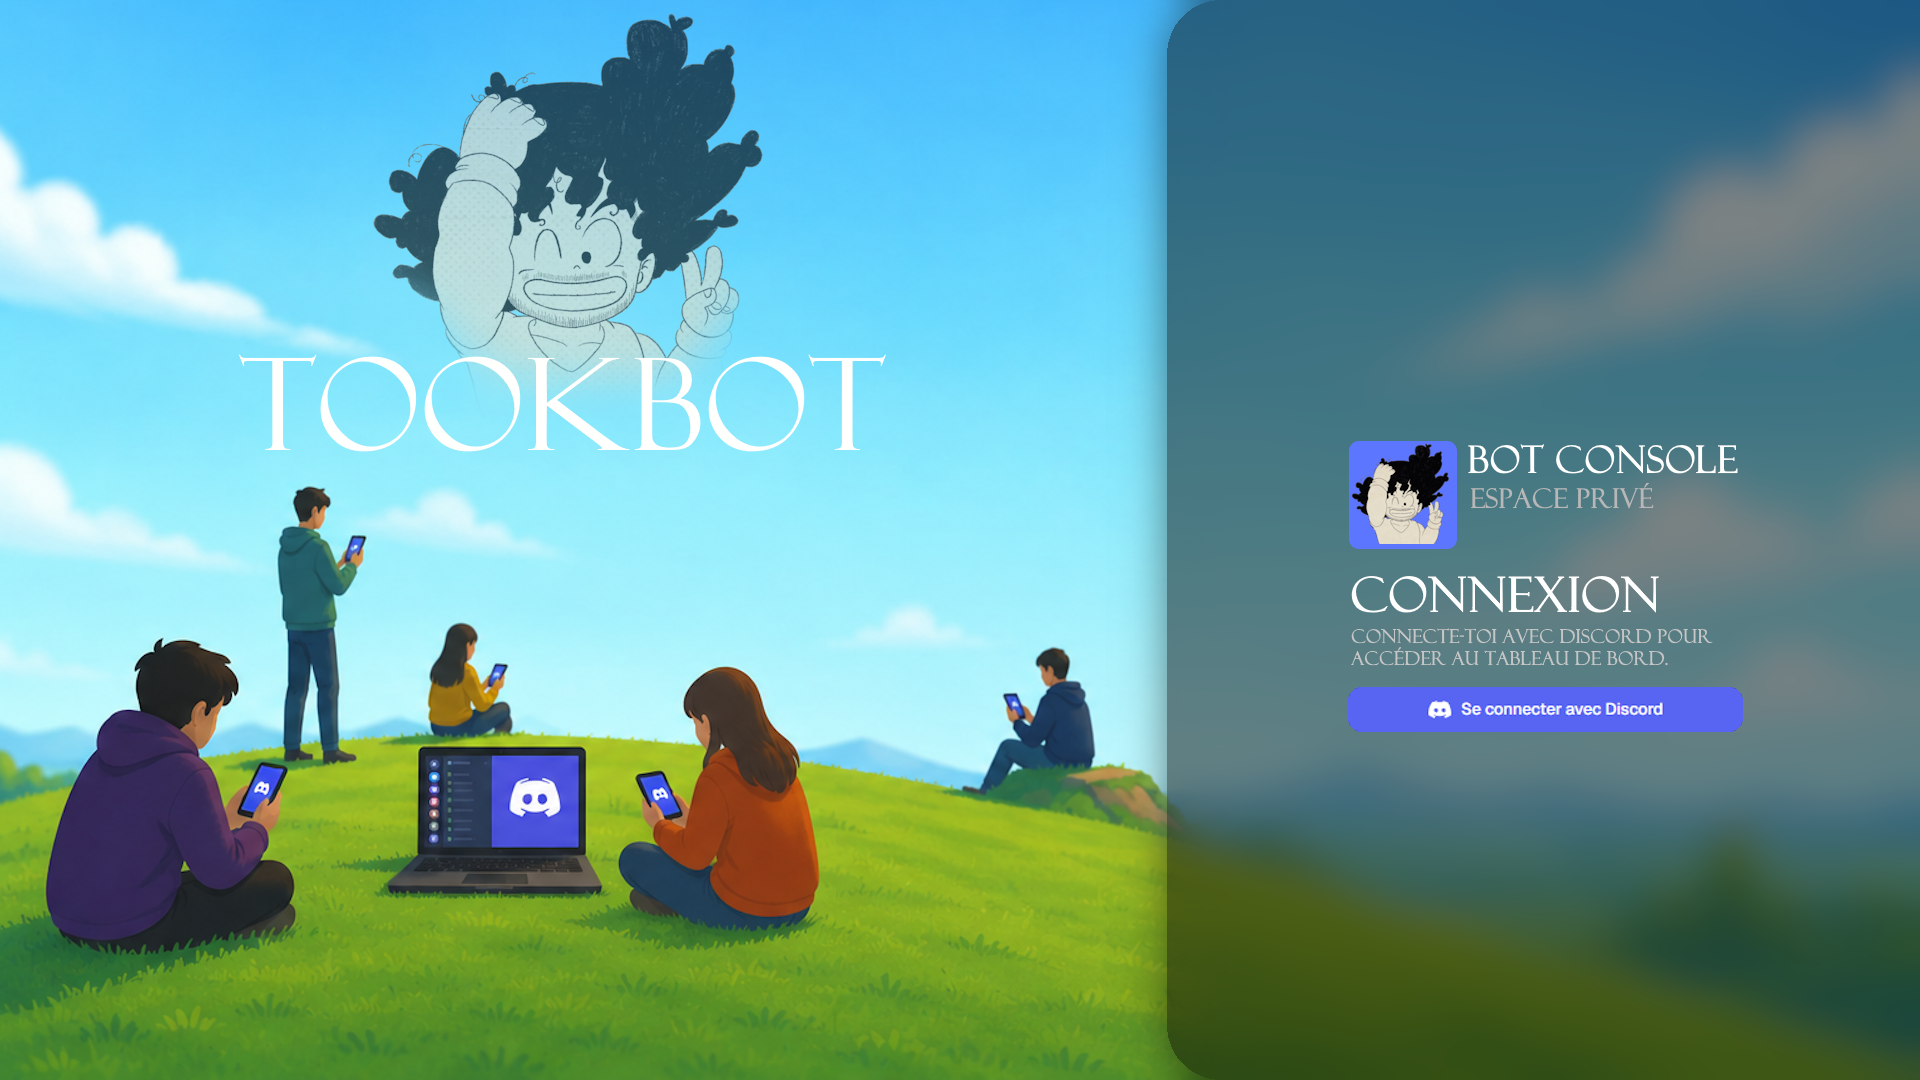
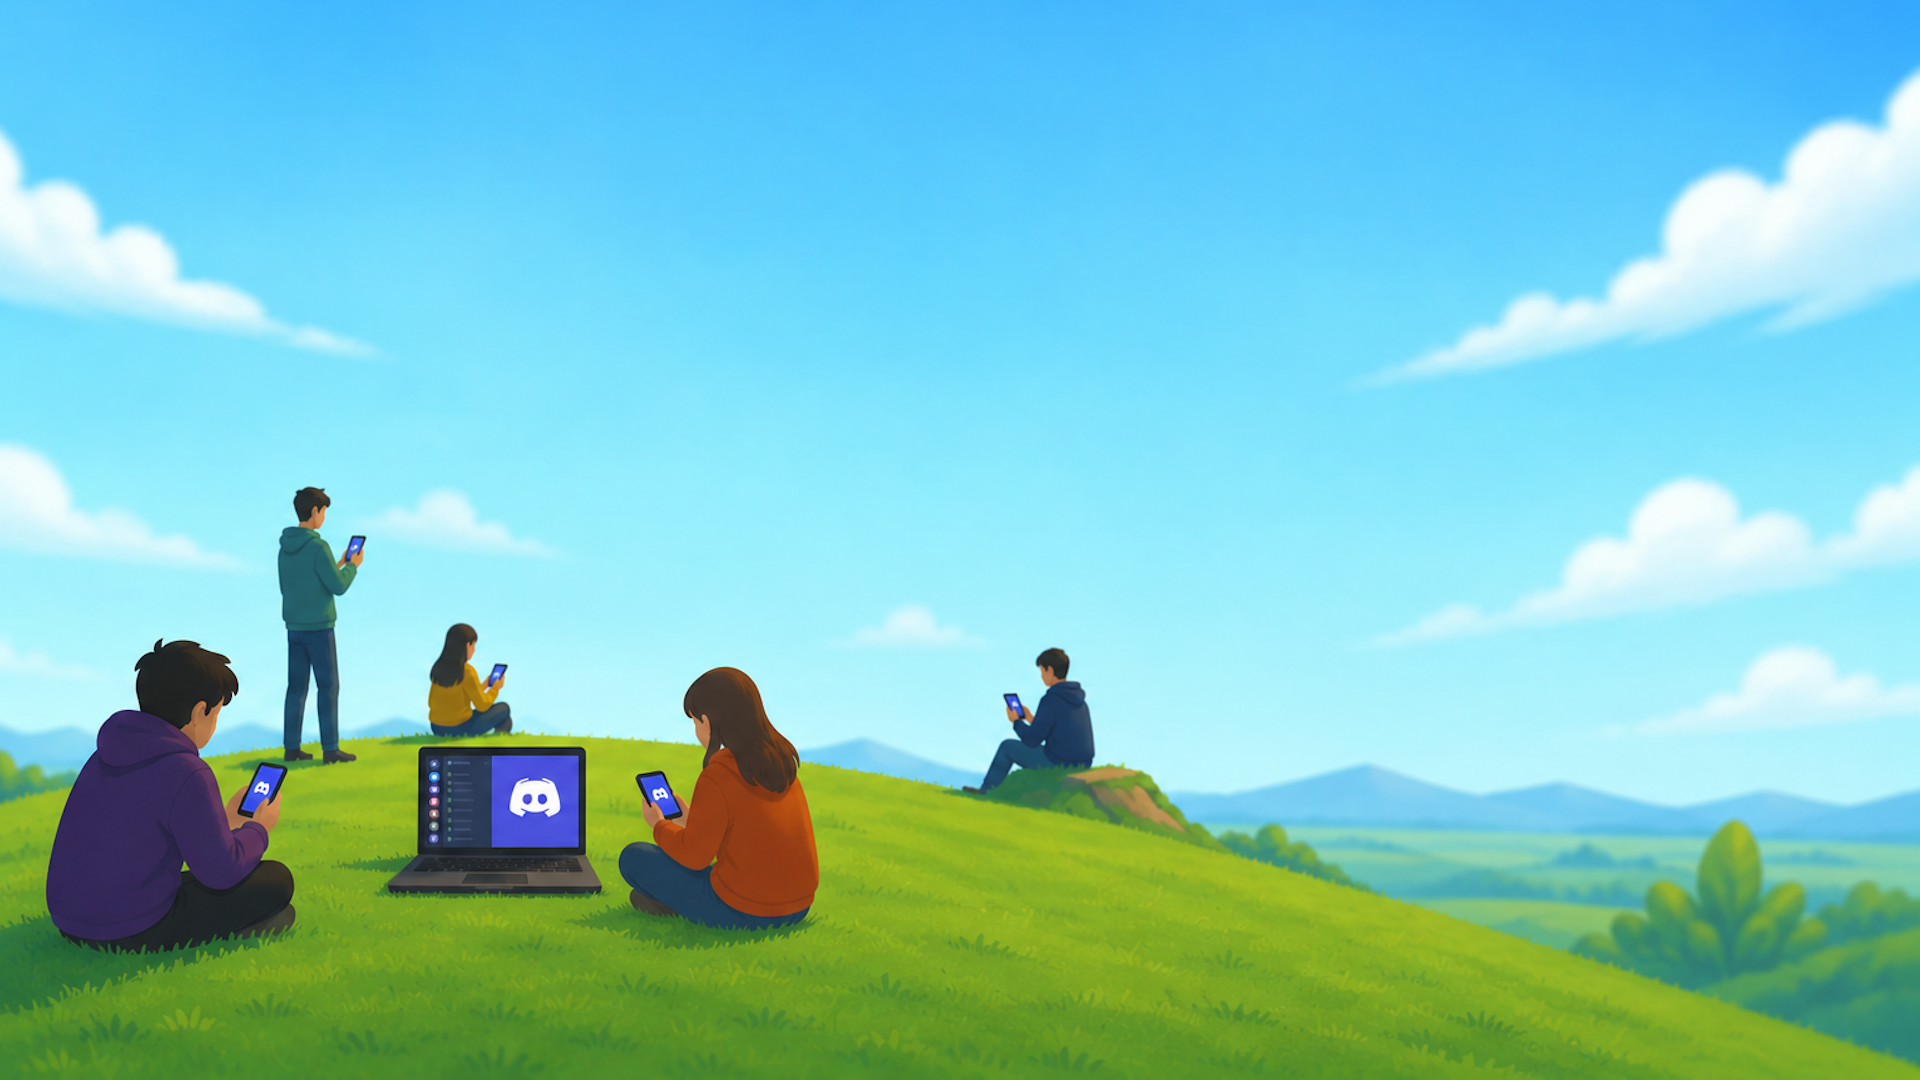
page connexion : panneau reconstruit en HTML (texte net + bouton discord) sur artwork, flou gaussien 64 derriere le panneau via backdrop-filter masque

diff --git a/templates/login.html b/templates/login.html
@@ -7,115 +7,121 @@
   <link rel="icon" type="image/png" sizes="32x32" href="/static/favicon-32.png">
   <link rel="apple-touch-icon" sizes="180x180" href="/static/favicon-180.png">
   <title>Connexion · TookBot</title>
-  {% include "_styles.html" %}
   <style>
-    /* Position du bouton Discord sur l'artwork (design 1920x1080). Ajustable. */
-    :root {
-      --btn-left: 85%;   /* centre horizontal du bouton, % de la largeur */
-      --btn-top: 65.5%;  /* centre vertical du bouton, % de la hauteur */
-      --btn-w: 26%;      /* largeur de la zone cliquable */
-      --btn-h: 6%;       /* hauteur de la zone cliquable */
-    }
-    html, body { height: 100%; }
+    * { box-sizing: border-box; }
+    html, body { height: 100%; margin: 0; }
     body {
-      margin: 0; padding: 0; overflow: hidden;
+      font-family: "Inter", "Segoe UI", system-ui, sans-serif;
+      overflow: hidden; color: #fff;
       background: #0a0a0f url("/static/login_bg.png") center / cover no-repeat;
     }
-    .login-stage { position: fixed; inset: 0; }
-    /* Hotspot cliquable PILE sur le bouton dessiné dans l'image */
-    .login-discord {
-      position: absolute;
-      left: var(--btn-left); top: var(--btn-top);
-      width: var(--btn-w); height: var(--btn-h);
-      transform: translate(-50%, -50%);
-      border-radius: 10px;
-      cursor: pointer;
-      background: transparent;
-      transition: background .15s ease, box-shadow .15s ease;
+    /* Flou gaussien 64 derriere le panneau : backdrop-filter masque par la forme
+       du panel PNG (meme cadrage cover -> alignement parfait avec le fond). */
+    .panel-blur {
+      position: fixed; inset: 0; z-index: 1; pointer-events: none;
+      -webkit-backdrop-filter: blur(64px); backdrop-filter: blur(64px);
+      -webkit-mask: url("/static/login_panel.png") center / cover no-repeat;
+              mask: url("/static/login_panel.png") center / cover no-repeat;
     }
-    .login-discord:hover {
-      background: rgba(255,255,255,0.10);
-      box-shadow: 0 0 0 2px rgba(255,255,255,0.25), 0 6px 24px rgba(0,0,0,0.3);
+    /* Le panneau (tint / verre depoli / bords) par-dessus le flou. */
+    .panel-img {
+      position: fixed; inset: 0; z-index: 2; pointer-events: none;
+      background: url("/static/login_panel.png") center / cover no-repeat;
     }
-    .login-discord:focus-visible {
-      outline: none; background: rgba(255,255,255,0.12);
-      box-shadow: 0 0 0 2px #5865F2;
+    /* Contenu HTML net positionne sur la zone du panneau (design 1920x1080). */
+    .panel-content {
+      position: fixed; z-index: 3;
+      top: 0; bottom: 0; left: 61.5%; right: 2%;
+      display: flex; flex-direction: column; justify-content: center;
+      gap: 22px; padding: 0 3% 0 0;
+      text-shadow: 0 1px 12px rgba(0,0,0,0.25);
     }
-    /* Message d'erreur discret en haut */
+    .brand { display: flex; align-items: center; gap: 16px; }
+    .brand img { width: 64px; height: 64px; border-radius: 14px; box-shadow: 0 4px 16px rgba(0,0,0,0.3); }
+    .brand .b-title {
+      font-family: Georgia, "Times New Roman", serif;
+      font-size: clamp(22px, 2.1vw, 40px); font-weight: 700;
+      letter-spacing: 0.04em; line-height: 1;
+    }
+    .brand .b-sub {
+      font-family: Georgia, "Times New Roman", serif;
+      font-size: clamp(11px, 0.9vw, 16px); letter-spacing: 0.22em;
+      text-transform: uppercase; color: rgba(255,255,255,0.78); margin-top: 6px;
+    }
+    .panel-content h1 {
+      font-family: Georgia, "Times New Roman", serif;
+      font-weight: 700; margin: 8px 0 0;
+      font-size: clamp(30px, 3.4vw, 64px); letter-spacing: 0.06em;
+      text-transform: uppercase; line-height: 1;
+    }
+    .panel-content .desc {
+      font-size: clamp(13px, 1vw, 18px); line-height: 1.5;
+      color: rgba(255,255,255,0.9); max-width: 30ch;
+      text-transform: uppercase; letter-spacing: 0.04em;
+    }
+    .btn-discord {
+      display: inline-flex; align-items: center; justify-content: center; gap: 10px;
+      width: 100%; max-width: 420px; padding: 14px 18px; margin-top: 6px;
+      border-radius: 12px; background: #5865F2; color: #fff;
+      text-decoration: none; font-weight: 600; font-size: clamp(13px, 1.05vw, 18px);
+      border: none; cursor: pointer; transition: background .15s ease, transform .12s ease;
+      box-shadow: 0 8px 28px rgba(88,101,242,0.45);
+    }
+    .btn-discord:hover { background: #4752c4; transform: translateY(-1px); }
+    .btn-discord svg { width: 20px; height: 20px; }
     .login-err {
-      position: fixed; top: 16px; left: 50%; transform: translateX(-50%);
+      position: fixed; top: 16px; left: 24px; z-index: 10;
       background: rgba(220,40,60,0.92); color: #fff;
       padding: 10px 16px; border-radius: 10px; font-size: 14px;
-      z-index: 10; box-shadow: 0 6px 24px rgba(0,0,0,0.4); max-width: 90vw;
+      box-shadow: 0 6px 24px rgba(0,0,0,0.4); max-width: 60vw;
     }
-    /* Repli si OAuth indispo / pas de méthode : carte centrée lisible */
-    .login-fallback {
-      position: fixed; inset: 0; display: grid; place-items: center; padding: 24px;
-    }
-    .login-fallback .card {
-      background: rgba(15,16,22,0.92); border: 1px solid rgba(255,255,255,0.12);
-      border-radius: 16px; padding: 28px; max-width: 380px; width: 100%;
-      color: #fff; backdrop-filter: blur(8px);
-    }
-    .login-fallback h1 { font-size: 20px; margin: 0 0 6px; }
-    .login-fallback p { color: #c9c9d2; font-size: 14px; margin: 0 0 16px; }
-    .btn-discord {
-      display: inline-flex; align-items: center; justify-content: center; gap: 8px;
-      width: 100%; padding: 12px 16px; border-radius: 10px;
-      background: #5865F2; color: #fff; text-decoration: none; font-weight: 600;
-      border: none; cursor: pointer;
-    }
-    .btn-discord:hover { background: #4752c4; }
-    .btn-discord svg { width: 18px; height: 18px; }
-    /* Écran étroit (mobile) : l'artwork large cache le panneau -> carte centrée */
-    @media (max-width: 820px) {
-      .login-stage { display: none; }
-    }
-    @media (min-width: 821px) {
-      .login-fallback { display: none; }
-    }
-    /* Lien fallback mot de passe discret en bas (si configuré) */
-    .pw-fallback {
-      position: fixed; bottom: 14px; left: 50%; transform: translateX(-50%);
-      z-index: 10; font-size: 12px;
-    }
+    .pw-fallback { position: fixed; bottom: 14px; left: 24px; z-index: 10; font-size: 12px; }
     .pw-fallback summary { color: rgba(255,255,255,0.55); cursor: pointer; }
-    .pw-fallback form {
-      margin-top: 8px; display: flex; gap: 8px;
-      background: rgba(15,16,22,0.9); padding: 10px; border-radius: 10px;
-    }
+    .pw-fallback form { margin-top: 8px; display: flex; gap: 8px; background: rgba(15,16,22,0.9); padding: 10px; border-radius: 10px; }
     .pw-fallback input { padding: 8px 10px; border-radius: 8px; border: 1px solid #333; background:#111; color:#fff; }
     .pw-fallback button { padding: 8px 12px; border-radius: 8px; border: none; background:#2a2a33; color:#fff; cursor:pointer; }
+
+    /* Mobile / etroit : artwork large -> on remplace par une carte centree lisible */
+    @media (max-width: 860px) {
+      .panel-blur, .panel-img { display: none; }
+      .panel-content {
+        inset: 0; left: 0; right: 0; align-items: center; text-align: center;
+        padding: 24px; background: rgba(8,9,14,0.62);
+        -webkit-backdrop-filter: blur(6px); backdrop-filter: blur(6px);
+      }
+      .panel-content .desc { max-width: 34ch; }
+      .btn-discord { max-width: 360px; }
+    }
   </style>
 </head>
 <body>
   {% if error %}<div class="login-err">{{ error }}</div>{% endif %}
 
-  {% if oauth_enabled %}
-  <!-- Desktop : artwork plein écran + hotspot sur le bouton dessiné -->
-  <div class="login-stage">
-    <a class="login-discord" href="/oauth/login" aria-label="Se connecter avec Discord"></a>
-  </div>
-  {% endif %}
+  <div class="panel-blur"></div>
+  <div class="panel-img"></div>
 
-  <!-- Mobile / repli : carte centrée -->
-  <div class="login-fallback">
-    <div class="card">
-      <h1>Connexion</h1>
-      {% if oauth_enabled %}
-      <p>Connecte-toi avec Discord pour accéder au tableau de bord.</p>
-      <a class="btn-discord" href="/oauth/login">
-        <svg viewBox="0 0 24 24" fill="currentColor" aria-hidden="true">
-          <path d="M20.317 4.37a19.79 19.79 0 0 0-4.885-1.515.074.074 0 0 0-.079.037c-.21.375-.444.864-.608 1.249a18.27 18.27 0 0 0-5.487 0 12.64 12.64 0 0 0-.617-1.249.077.077 0 0 0-.079-.037A19.736 19.736 0 0 0 3.677 4.37a.07.07 0 0 0-.032.027C.533 9.046-.32 13.58.099 18.057a.082.082 0 0 0 .031.057 19.9 19.9 0 0 0 5.993 3.03.078.078 0 0 0 .084-.028 14.09 14.09 0 0 0 1.226-1.994.076.076 0 0 0-.041-.106 13.107 13.107 0 0 1-1.872-.892.077.077 0 0 1-.008-.128 10.2 10.2 0 0 0 .372-.292.074.074 0 0 1 .077-.01c3.928 1.793 8.18 1.793 12.062 0a.074.074 0 0 1 .078.01c.12.098.246.198.373.292a.077.077 0 0 1-.006.127 12.299 12.299 0 0 1-1.873.892.077.077 0 0 0-.041.107c.36.698.772 1.362 1.225 1.993a.076.076 0 0 0 .084.028 19.839 19.839 0 0 0 6.002-3.03.077.077 0 0 0 .032-.054c.5-5.177-.838-9.674-3.549-13.66a.061.061 0 0 0-.031-.03zM8.02 15.33c-1.183 0-2.157-1.085-2.157-2.419 0-1.333.956-2.419 2.157-2.419 1.21 0 2.176 1.096 2.157 2.42 0 1.333-.956 2.418-2.157 2.418zm7.975 0c-1.183 0-2.157-1.085-2.157-2.419 0-1.333.955-2.419 2.157-2.419 1.21 0 2.176 1.096 2.157 2.42 0 1.333-.946 2.418-2.157 2.418z"/>
-        </svg>
-        Se connecter avec Discord
-      </a>
-      {% elif not password_fallback %}
-      <p>Aucune méthode de connexion configurée. Définis DISCORD_CLIENT_ID/SECRET ou WEB_PASSWORD dans le <code>.env</code>.</p>
-      {% else %}
-      <p>Connexion par mot de passe.</p>
-      {% endif %}
+  <div class="panel-content">
+    <div class="brand">
+      <img src="/static/favicon-512.png" alt="">
+      <div>
+        <div class="b-title">BOT CONSOLE</div>
+        <div class="b-sub">Espace privé</div>
+      </div>
     </div>
+
+    <h1>Connexion</h1>
+    <div class="desc">Connecte-toi avec Discord pour accéder au tableau de bord.</div>
+
+    {% if oauth_enabled %}
+    <a class="btn-discord" href="/oauth/login">
+      <svg viewBox="0 0 24 24" fill="currentColor" aria-hidden="true">
+        <path d="M20.317 4.37a19.79 19.79 0 0 0-4.885-1.515.074.074 0 0 0-.079.037c-.21.375-.444.864-.608 1.249a18.27 18.27 0 0 0-5.487 0 12.64 12.64 0 0 0-.617-1.249.077.077 0 0 0-.079-.037A19.736 19.736 0 0 0 3.677 4.37a.07.07 0 0 0-.032.027C.533 9.046-.32 13.58.099 18.057a.082.082 0 0 0 .031.057 19.9 19.9 0 0 0 5.993 3.03.078.078 0 0 0 .084-.028 14.09 14.09 0 0 0 1.226-1.994.076.076 0 0 0-.041-.106 13.107 13.107 0 0 1-1.872-.892.077.077 0 0 1-.008-.128 10.2 10.2 0 0 0 .372-.292.074.074 0 0 1 .077-.01c3.928 1.793 8.18 1.793 12.062 0a.074.074 0 0 1 .078.01c.12.098.246.198.373.292a.077.077 0 0 1-.006.127 12.299 12.299 0 0 1-1.873.892.077.077 0 0 0-.041.107c.36.698.772 1.362 1.225 1.993a.076.076 0 0 0 .084.028 19.839 19.839 0 0 0 6.002-3.03.077.077 0 0 0 .032-.054c.5-5.177-.838-9.674-3.549-13.66a.061.061 0 0 0-.031-.03zM8.02 15.33c-1.183 0-2.157-1.085-2.157-2.419 0-1.333.956-2.419 2.157-2.419 1.21 0 2.176 1.096 2.157 2.42 0 1.333-.956 2.418-2.157 2.418zm7.975 0c-1.183 0-2.157-1.085-2.157-2.419 0-1.333.955-2.419 2.157-2.419 1.21 0 2.176 1.096 2.157 2.42 0 1.333-.946 2.418-2.157 2.418z"/>
+      </svg>
+      Se connecter avec Discord
+    </a>
+    {% elif not password_fallback %}
+    <div class="desc">Aucune méthode de connexion configurée. Définis DISCORD_CLIENT_ID/SECRET ou WEB_PASSWORD dans le <code>.env</code>.</div>
+    {% endif %}
   </div>
 
   {% if password_fallback %}
